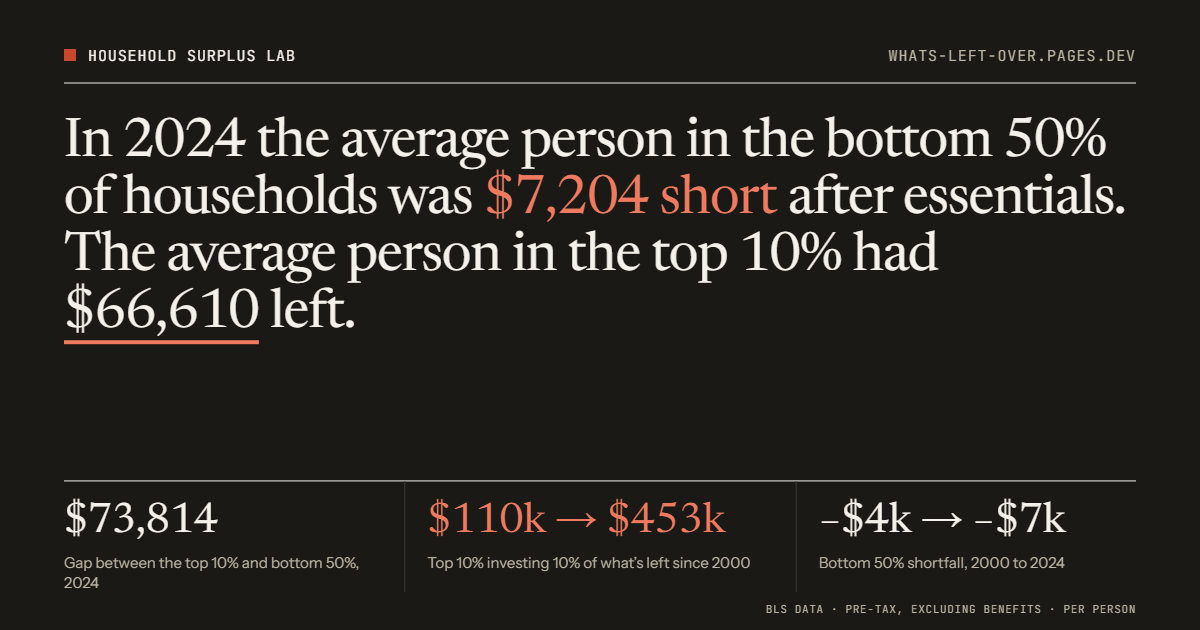
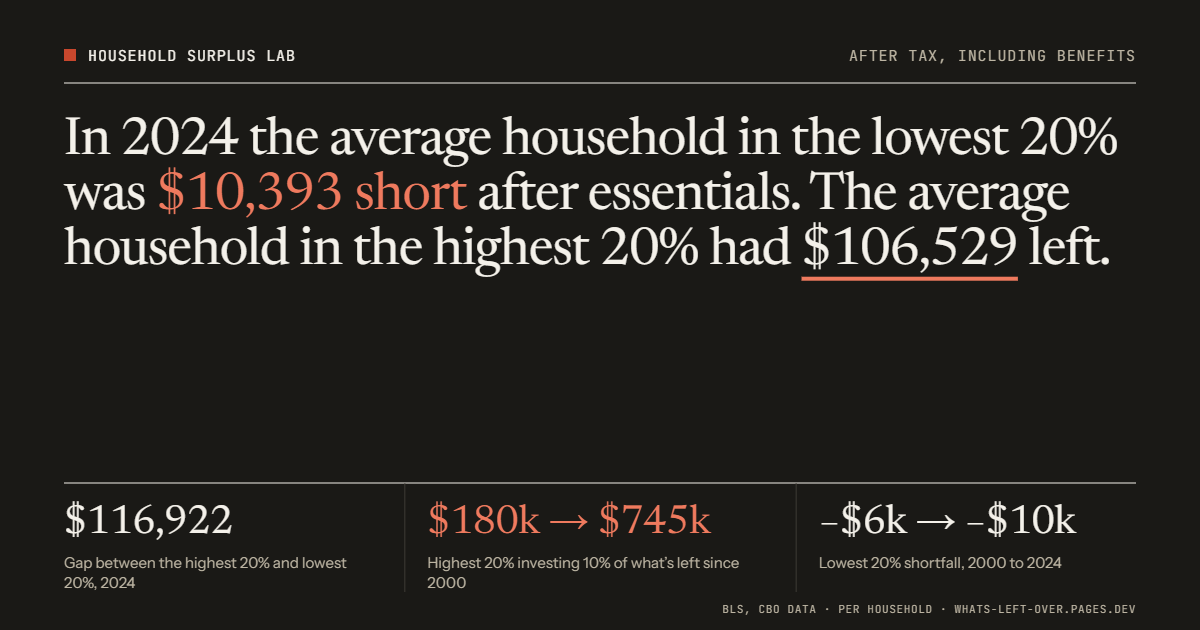
Default to per-household amounts; regenerate share images for the new defaults

diff --git a/index.html b/index.html
@@ -27,13 +27,13 @@
 <meta property="og:image" content="https://whats-left-over.pages.dev/og-image.png">
 <meta property="og:image:width" content="1200">
 <meta property="og:image:height" content="630">
-<meta property="og:image:alt" content="In 2024 the average person in the bottom 50% of U.S. households was $7,204 short after essentials; the average person in the top 10% had $66,610 left. Gap $73,814 per person; the top 10% investing 10% since 2000 grew $110k to $453k per person.">
+<meta property="og:image:alt" content="In 2024 the average U.S. household in the lowest 20% was $10,393 short after essentials, counting taxes and benefits; the average household in the highest 20% had $106,529 left.">
 <meta property="og:locale" content="en_US">
 <meta name="twitter:card" content="summary_large_image">
 <meta name="twitter:title" content="What’s left, and what it becomes">
 <meta name="twitter:description" content="How much U.S. households have left after essentials, by income group, and what investing it would add up to.">
 <meta name="twitter:image" content="https://whats-left-over.pages.dev/og-image.png">
-<meta name="twitter:image:alt" content="In 2024 the average person in the bottom 50% of U.S. households was $7,204 short after essentials; the average person in the top 10% had $66,610 left. Gap $73,814 per person; the top 10% investing 10% since 2000 grew $110k to $453k per person.">
+<meta name="twitter:image:alt" content="In 2024 the average U.S. household in the lowest 20% was $10,393 short after essentials, counting taxes and benefits; the average household in the highest 20% had $106,529 left.">
 <script type="application/ld+json">
 {"@context":"https://schema.org","@type":"WebApplication","name":"Household Surplus Lab","url":"https://whats-left-over.pages.dev/","image":"https://whats-left-over.pages.dev/og-image.png","applicationCategory":"EducationalApplication","operatingSystem":"Any","browserRequirements":"Requires JavaScript","isAccessibleForFree":true,"inLanguage":"en-US","author":{"@type":"Person","name":"Patrick Glenn by way of Claude and ChatGPT"},"license":"https://creativecommons.org/licenses/by/4.0/","dateModified":"2026-09-15","description":"Interactive simulator of how much U.S. households have left after essential spending, by income group, 2000–2026, with hypothetical S&P 500 investing. Based on BLS Consumer Expenditure Survey, CBO and BLS CPI data.","isBasedOn":["https://www.bls.gov/cex/tables.htm","https://www.cbo.gov/publication/61911","https://data.bls.gov/timeseries/CUUR0000SEEB03"]}
 </script>
@@ -529,7 +529,7 @@
           </div>
           <div class="control">
             <label for="unit">Show amounts<span class="tip" tabindex="0" role="button" aria-label="More info" data-tip="Per household: totals for the whole household. Per person: divided by the average number of people in households in that group (BLS: about 1.6 in the lowest 20% to 3.2 in the highest), plus any children you add under Childcare. This is a simple headcount; it doesn&#x27;t adjust for shared household costs the way economists&#x27; equivalence scales do.">?</span></label>
-            <select id="unit"><option value="household">Per household</option><option value="person" selected>Per person</option></select>
+            <select id="unit"><option value="household" selected>Per household</option><option value="person">Per person</option></select>
           </div>
         </div>
 
@@ -909,7 +909,7 @@ const DEFAULT_ESSENTIALS = ["food","housing","transport","health","insurance"];
 const ESSENTIAL_NAMES = {food:"food at home",housing:"housing",transport:"transportation",health:"healthcare",insurance:"insurance & pensions",education:"education"};
 
 const DEFAULTS = {
-  segmentation:"quintiles", customTop:1, unit:"person", afterTax:true, taxMethod:"cbo", includeTransfers:true, transferScale:100,
+  segmentation:"quintiles", customTop:1, unit:"household", afterTax:true, taxMethod:"cbo", includeTransfers:true, transferScale:100,
   kids:0, childcareCost:CHILDCARE_DEFAULT,
   inflationMode:"nominal", baseYear:2000, inflationRate:2.5, minTaxMode:"off", amtRate:20, amtThreshold:200000, f3View:"share", f3Group:"wealth", f4View:"revenue", f4Group:"wealth", wealthMode:"flat", wealthRate:2, wealthThreshold:50000000, wealthPaid:0.3,
   investPct:10, returnMode:"sp500", returnRate:8, portfolioView:"portfolio", showProjection:true, incomeView:"left", showHappiness:true, essentials:[...DEFAULT_ESSENTIALS],
@@ -1794,7 +1794,7 @@ function markPreset(key){ document.querySelectorAll(".preset").forEach(b=>b.setA
 function applyPreset(key){
   history.replaceState(null,"",PRESETS[key]?"#"+PRESETS[key]:location.pathname+location.search);
   state=cloneDefaults(); loadHash(); rebuildEssentials(); rebuildTaxes(); applyStateToUI(); update();
-  markPreset(key); announceStatus(`Scenario: ${document.querySelector(`.preset[data-preset="${key}"]`).textContent}.`);
+  markPreset(key); announceStatus(`Scenario: ${document.querySelector(`.preset[data-preset="${key}"]`)?.textContent||"defaults"}.`);
 }
 document.querySelectorAll(".preset").forEach(b=>b.addEventListener("click",()=>applyPreset(b.dataset.preset)));
 // Any manual change leaves the preset, except inputs that don't change the scenario.

diff --git a/README.md b/README.md
@@ -16,7 +16,7 @@ Open `index.html` in a modern browser, or serve the folder with any static serve
 
 ## Features
 - Income groups: quintiles, quartiles, deciles, 90/10, 95/5, 99/1, 50/40/10, or a custom top share.
-- Amounts per person (default) or per household.
+- Amounts per household (default) or per person.
 - Income after tax and including benefits by default (a "Market income only" preset removes both), with four tax methods: CBO federal rates (default, consistent across years), BLS adjusted for its 2013 method change, a fixed 2013–15 BLS rate, or BLS as published (marked on the chart at 2013).
 - Benefits and transfers on or off, with a what-if benefit amount.
 - Essential spending categories (food at home, housing, transportation, healthcare, insurance and pensions, and optional education), plus an expense editor to scale categories, edit any year and add a custom expense.
